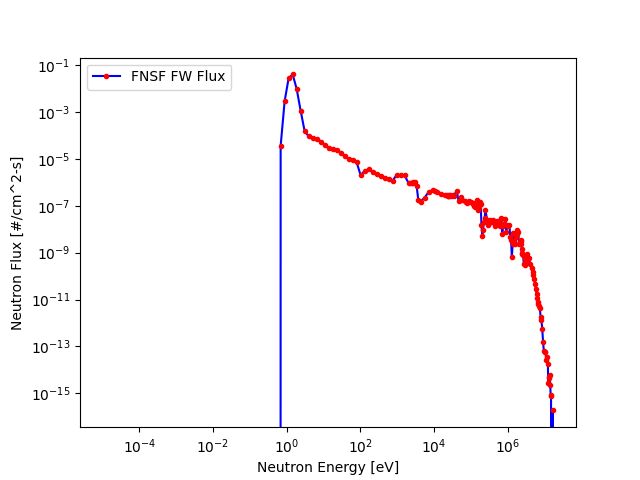
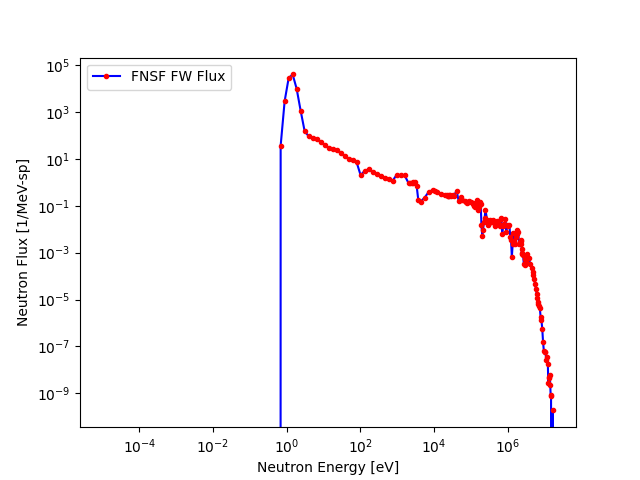
Change units on y-axis & make formatting change to document

diff --git a/examples/fusion_irr_hist.md b/examples/fusion_irr_hist.md
@@ -14,7 +14,7 @@ The plot below, which represents the FNSF FW spectrum, is an example of such a s
 
 ## $\bar{\phi}$: Average Flux Magnitude Over Irradiation History
 
-This quantity is defined as $\frac{{\int_{0}^{t_{irr}}\phi\hat(t)}}{{t_{irr}}}$ and is determined by the irradiation times described in the next section.
+This quantity is defined as $\bar{\phi}=\frac{{\int_{0}^{t_{irr}}\phi\hat(t)}}{{t_{irr}}}$ and is determined by the irradiation times described in the next section.
 
 ## Total Irradiation Time
 
